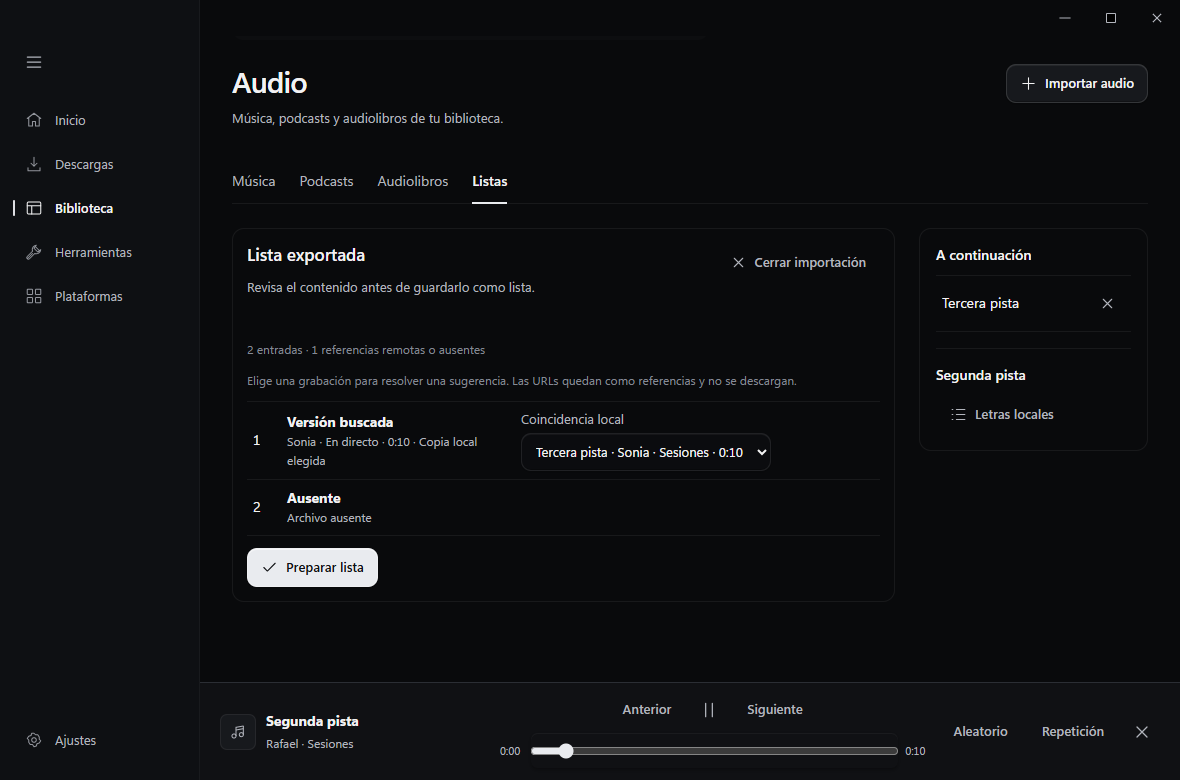
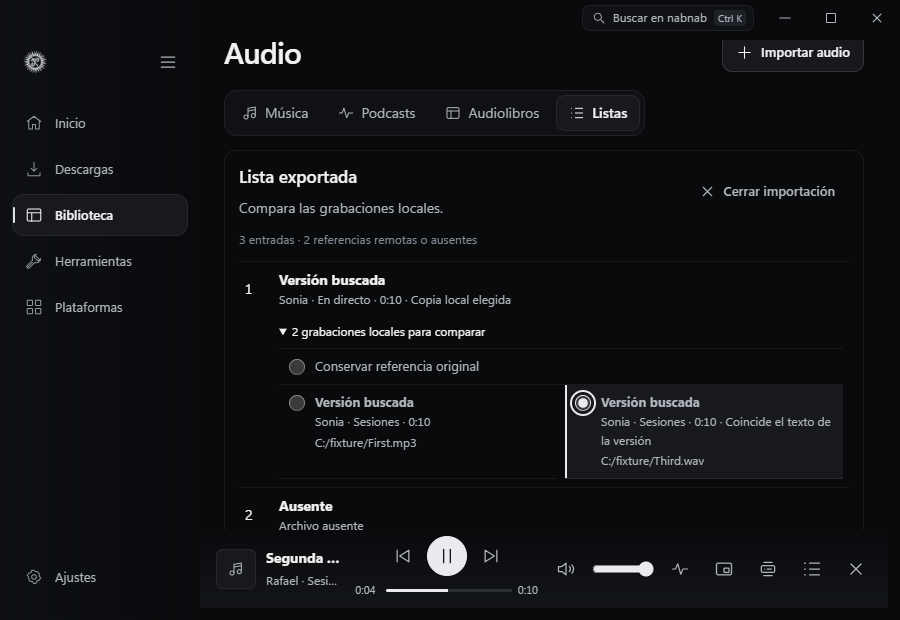
Compare playlist recording matches

diff --git a/src/audio-library-ui.ts b/src/audio-library-ui.ts
@@ -379,7 +379,9 @@ export function createAudioLibrary(hooks: Hooks) {
   }
 
   function importView(preview: ImportPreview) {
-    const header = `<div class="page-heading"><div><h2>${h(preview.name)}</h2><p>${t("Revisa el contenido antes de guardarlo como lista.", "Review the contents before saving as a playlist.")}</p></div>${action("audio-cancel-import", t("Cerrar importación", "Close import"), "close", "quiet", disabled())}</div>`;
+    const instruction = preview.kind === "csv" ? t("Confirma qué contiene cada columna.", "Confirm what each column contains.")
+      : t("Compara las grabaciones locales.", "Compare local recordings.");
+    const header = `<div class="page-heading"><div><h2>${h(preview.name)}</h2><p>${instruction}</p></div>${action("audio-cancel-import", t("Cerrar importación", "Close import"), "close", "quiet", disabled())}</div>`;
     if (preview.kind === "csv") {
       const labels: Record<Column, string> = {
         locator: t("Ruta o URL", "Path or URL"), id: t("Identificador", "Identifier"), title: tagName("title"),
@@ -394,17 +396,26 @@ export function createAudioLibrary(hooks: Hooks) {
     }
     const start = importPage * 40;
     const unresolved = preview.rows.filter((row, index) => row.entry.kind !== "local" && !resolutions.has(index)).length;
-    return `<section class="audio-editor">${header}<p class="field-note">${preview.rows.length} ${t("entradas", "entries")} · ${unresolved} ${t("referencias remotas o ausentes", "remote or missing references")}</p>
-      <p class="field-note">${t("Elige una grabación para resolver una sugerencia. Las URLs quedan como referencias y no se descargan.", "Choose a recording to resolve a suggestion. URLs remain references and are never downloaded.")}</p>
+    const filePaths = new Map(hooks.snapshot().library.map(item => [item.id, item.path]));
+    return `<section class="audio-editor audio-import-editor">${header}<p class="field-note">${preview.rows.length} ${t("entradas", "entries")} · ${unresolved} ${t("referencias remotas o ausentes", "remote or missing references")}</p>
       <ol class="audio-rows audio-import-rows" start="${start + 1}">${preview.rows.slice(start, start + 40).map((row, offset) => {
         const index = start + offset;
-        const original = resolutions.has(index) ? t("Copia local elegida", "Local copy chosen")
+        const selected = resolutions.get(index);
+        const original = selected ? t("Copia local elegida", "Local copy chosen")
           : row.entry.kind === "local" ? t("Archivo local", "Local file") : row.entry.kind === "remote" ? t("URL remota", "Remote URL") : t("Archivo ausente", "Missing file");
         const metadata = [row.artist, row.version, row.duration === null ? "" : durationLabel(row.duration), original].filter(Boolean).join(" · ");
-        return `<li class="audio-playlist-entry"><span>${index + 1}</span><div><strong>${h(row.entry.title)}</strong><small>${h(metadata)}</small></div>
-          ${row.candidates.length ? `<label class="audio-match">${t("Coincidencia local", "Local match")}<select id="audio-import-match-${index}" data-audio-match="${index}" ${disabled()}>
-            ${option("", t("Conservar referencia original", "Keep original reference"), resolutions.get(index) ?? "")}
-            ${row.candidates.map(candidate => option(candidate.id, [candidate.title, candidate.artist, candidate.album, candidate.duration === null ? "" : durationLabel(candidate.duration), candidate.versionMatches ? t("Versión indicada", "Reported version") : ""].filter(Boolean).join(" · "), resolutions.get(index) ?? "")).join("")}</select></label>` : ""}</li>`;
+        const count = row.candidates.length;
+        const radio = (optionIndex: number, id: string) => `<input type="radio" id="audio-match-${index}-${optionIndex}" name="audio-match-${index}" data-audio-match="${index}" value="${h(id)}" ${id === (selected ?? "") ? "checked" : ""} ${disabled()}>`;
+        return `<li class="audio-playlist-entry"><span>${index + 1}</span><div><strong id="audio-import-title-${index}">${h(row.entry.title)}</strong><small>${h(metadata)}</small></div>
+          ${count ? `<details class="audio-match" id="audio-import-match-${index}"><summary id="audio-match-summary-${index}" aria-describedby="audio-import-title-${index}">${count === 1 ? t("Revisar grabación local", "Review local recording") : `${count} ${t("grabaciones locales para comparar", "local recordings to compare")}`}</summary>
+            <fieldset><legend class="sr-only">${h(t("Grabaciones locales para ", "Local recordings for ") + row.entry.title)}</legend>
+              <label class="audio-match-option">${radio(0, "")}<span>${t("Conservar referencia original", "Keep original reference")}</span></label>
+              <div class="audio-match-candidates">${row.candidates.map((candidate, candidateIndex) => {
+                const details = [candidate.artist, candidate.album, candidate.duration === null ? "" : durationLabel(candidate.duration), candidate.versionMatches ? t("Coincide el texto de la versión", "Version text matches") : ""].filter(Boolean).join(" · ");
+                const filePath = filePaths.get(candidate.id);
+                return `<label class="audio-match-option">${radio(candidateIndex + 1, candidate.id)}<span><strong>${h(candidate.title)}</strong>${details ? `<small>${h(details)}</small>` : ""}${filePath ? `<small class="audio-match-path" dir="auto">${h(filePath)}</small>` : ""}</span></label>`;
+              }).join("")}</div>
+            </fieldset></details>` : ""}</li>`;
       }).join("")}</ol>
       ${preview.rows.length > 40 ? `<div class="library-pagination"><span>${start + 1}–${Math.min(preview.rows.length, start + 40)} / ${preview.rows.length}</span>
         ${action("audio-import-back", t("Anterior", "Previous"), undefined, "quiet", importPage ? disabled() : "disabled")}
@@ -764,6 +775,14 @@ export function createAudioLibrary(hooks: Hooks) {
     const view = views[category];
     const { selected, tags } = view;
     if (element instanceof HTMLInputElement) {
+      if (element.dataset.audioMatch !== undefined) {
+        if (element.checked) {
+          const index = Number(element.dataset.audioMatch);
+          if (element.value) resolutions.set(index, element.value); else resolutions.delete(index);
+          hooks.render();
+        }
+        return true;
+      }
       if (element.id === "audio-csv-ms") { milliseconds = element.checked; return true; }
       if (element.id === "audio-query") { view.query = element.value; view.offset = 0; view.shelfOffset = 0; hooks.render(); return true; }
       if (element.id === "audio-playlist-name" && editing) { editing.name = element.value; return true; }
@@ -790,11 +809,6 @@ export function createAudioLibrary(hooks: Hooks) {
     const column = columns.find(field => element.id === `audio-csv-${field}`);
     if (column) {
       if (element.value === "") delete mapping[column]; else mapping[column] = Number(element.value);
-      hooks.render(); return true;
-    }
-    if (element.dataset.audioMatch !== undefined) {
-      const index = Number(element.dataset.audioMatch);
-      if (element.value) resolutions.set(index, element.value); else resolutions.delete(index);
       hooks.render(); return true;
     }
     switch (element.id) {

diff --git a/src/audio-library.css b/src/audio-library.css
@@ -117,13 +117,18 @@
 .audio-import-map .audio-filters { margin: 0; }
 .audio-import-map > button { justify-self: start; }
 .audio-ms { display: flex; align-items: center; gap: 6px; color: var(--muted); }
-.audio-match { display: grid; gap: 4px; color: var(--muted); max-width: min(100%, 250px); }
-.audio-match select { max-width: 100%; }
-.audio-import-rows .audio-playlist-entry:has(.audio-match) { grid-template-columns: 24px minmax(0, 1fr) minmax(140px, auto); }
-@media (max-width: 1080px) {
-  .audio-import-rows .audio-playlist-entry:has(.audio-match) { grid-template-columns: 24px minmax(0, 1fr); }
-  .audio-match { grid-column: 2; }
-}
+body:not([data-page="home"]) #page-content .audio-import-editor > .page-heading { margin-bottom: 0; }
+.audio-import-rows .audio-playlist-entry { grid-template-columns: 24px minmax(0, 1fr); }
+.audio-match { grid-column: 2; min-width: 0; }
+.audio-match summary { width: fit-content; max-width: 100%; padding: 4px 0; color: var(--muted); font-size: 12px; cursor: pointer; }
+.audio-match summary:hover, .audio-match[open] summary { color: var(--text); }
+.audio-match fieldset { min-width: 0; margin: 4px 0 0; padding: 0; border: 0; border-block-start: 1px solid var(--edge-quiet); }
+.audio-match-candidates { display: grid; grid-template-columns: repeat(auto-fit, minmax(min(100%, 224px), 1fr)); column-gap: 8px; }
+.audio-match-option { display: grid; grid-template-columns: auto minmax(0, 1fr); align-items: start; gap: 10px; padding: 8px 10px; border-bottom: 1px solid var(--edge-quiet); cursor: pointer; }
+.audio-match-option:hover, .audio-match-option:focus-within { background: var(--hover); }
+.audio-match-option:has(:checked) { background: var(--surface); box-shadow: inset 2px 0 var(--action); }
+.audio-match-option input[type="radio"] { width: 16px; min-height: 16px; height: 16px; margin: 2px 0 0; accent-color: var(--action); }
+.audio-match-path { margin-top: 2px; }
 .audio-player { position: relative; min-width: 0; z-index: 5; min-height: 68px; padding: 6px 20px; }
 #audio-transport { display: grid; grid-template-columns: minmax(120px, 1fr) minmax(200px, 1.6fr) auto; align-items: center; gap: 14px; }
 .audio-open { grid-template-columns: 40px minmax(0, 1fr); gap: 10px; align-items: center; justify-content: stretch; padding: 4px; border-radius: 8px; }

diff --git a/docs/AUDIO-LIBRARY.md b/docs/AUDIO-LIBRARY.md
@@ -22,7 +22,7 @@ Desde la pista actual, **Elegir portada** permite asociar un JPEG, PNG o WebP lo
 
 ![Letras locales sincronizadas en el panel de Audio](audio-lyrics.png)
 
-En **Listas → Importar lista** puedes abrir M3U, M3U8, PLS o CSV en UTF-8. En CSV, confirma las columnas y la unidad de duración. nabnab reconoce identificadores y rutas de archivos que ya están en Biblioteca. Las coincidencias por título, artista, duración o versión son sugerencias. Puedes escoger la grabación o conservar la referencia remota o ausente. La lista conserva el orden y las URLs importadas permanecen como referencias.
+En **Listas → Importar lista** puedes abrir M3U, M3U8, PLS o CSV en UTF-8. En CSV, confirma las columnas y la unidad de duración. nabnab reconoce identificadores y rutas de archivos que ya están en Biblioteca. Abre las sugerencias de una entrada para comparar la duración y la ruta completa de las grabaciones. El indicador de versión compara el texto con el nombre del archivo o del álbum. La referencia remota o ausente queda seleccionada al empezar. Puedes elegir una grabación local y preparar la lista conservando su orden.
 
 La prueba de interfaz reproduce un WAV silencioso en Edge con almacenamiento de escritorio simulado. Comprueba el orden por disco y pista, la estantería con teclado, la continuidad del reproductor, el descanso de audiolibros, las letras y la edición de listas y etiquetas. La prueba nativa usa audio sintético y verifica que, después de reiniciar nabnab, **Continuar** abre el capítulo siguiente de un libro cuyo capítulo anterior terminó. La integración con Windows se comprueba mediante solicitudes del sistema a la sesión multimedia de prueba.
 
